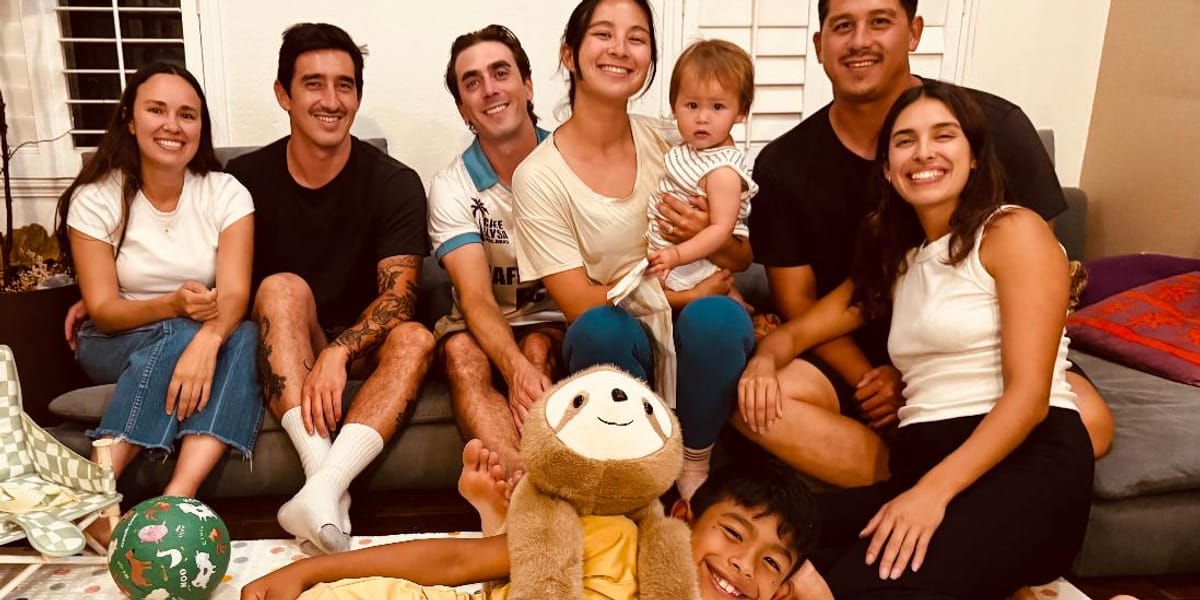
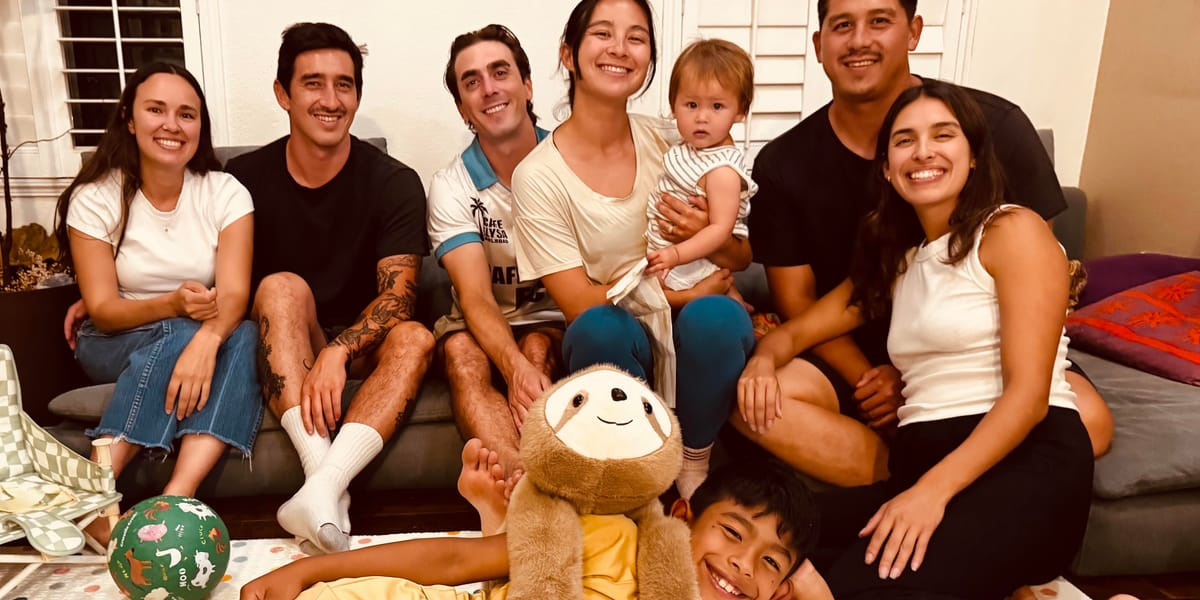
Rebuild the family shot and swap the skydive for the ice climb
fam2.jpg is the 4898x3193 original, so the wide tile keeps its framing and
stops being the softest thing on the page. The ice climb takes the skydive's
slot under a new filename rather than overwriting it: photos are cached for a
week, and a reused name would have served the old picture until it expired.

Claude-Session: https://claude.ai/code/session_011xAcPctHQLUVWux9W5YTyo

diff --git a/src/views/life.js b/src/views/life.js
@@ -44,7 +44,7 @@ const ORDER = [
   // Everything else, oldest first.
   { file: 'photo-08.jpg', alt: 'Two dogs in the back seat' },
   { file: 'photo-20.jpg', alt: 'Paddling with a dog swimming alongside' },
-  { file: 'photo-12.jpg', alt: 'A tandem skydive' },
+  { file: 'photo-24.jpg', alt: 'Ice climbing a frozen pillar, with pines on the slope below' },
   { file: 'photo-13.jpg', alt: 'The raft in the whitewater' },
   { file: 'photo-18.jpg', alt: 'The bow of a kayak at sunset' },
   { file: 'photo-09.jpg', alt: 'The soccer team with the trophy' },
